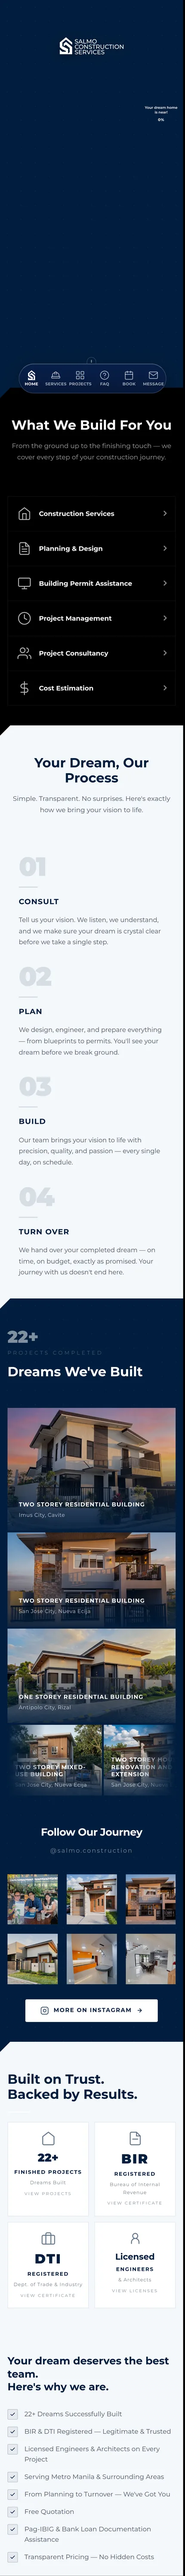
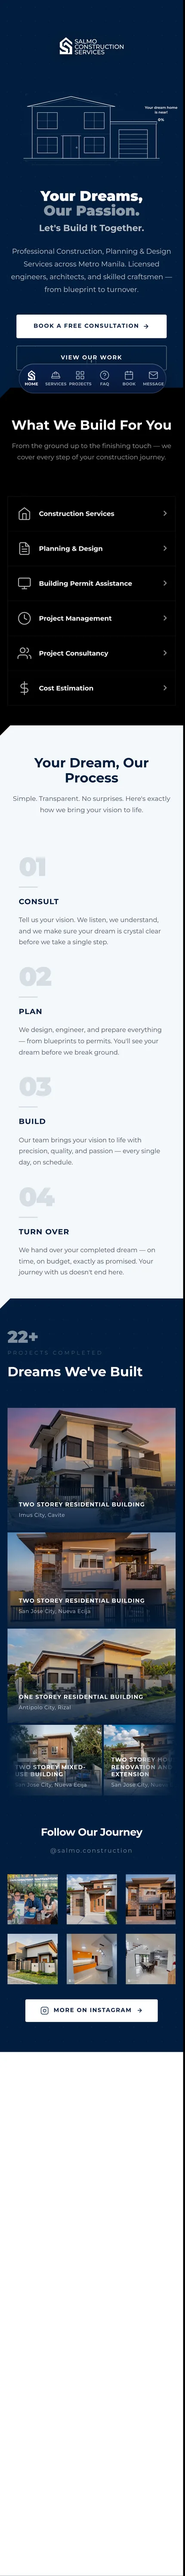
Website Design: sync scroll, phone half-overlap, Salmo mobile loaded state
- Both previews share one (slower) duration so desktop + phone scroll in sync
- Move the iPhone mock right so only ~half overlaps the desktop (wider grid
  gap so it never hits the neighbouring card; safe overhang on phones)
- Re-capture Salmo mobile after its intro animation (real homepage hero)

diff --git a/styles/website-design.css b/styles/website-design.css
@@ -109,12 +109,12 @@
   z-index: 1;
   display: grid;
   grid-template-columns: repeat(2, minmax(0, 1fr));
-  gap: clamp(20px, 3vw, 40px);
-  max-width: 900px;
+  gap: clamp(56px, 7vw, 76px);   /* wide enough for the phone's right overhang */
+  max-width: 940px;
   margin: 0 auto;
 }
 
-@media (max-width: 560px) { .webd-grid { grid-template-columns: 1fr; max-width: 420px; } }
+@media (max-width: 560px) { .webd-grid { grid-template-columns: 1fr; max-width: 420px; gap: 40px; } }
 
 /* ── Card ───────────────────────────────────────────── */
 .webd-card {
@@ -291,7 +291,7 @@
 .webd-phone {
   position: absolute;
   z-index: 4;
-  right: -6px;
+  right: -50px;                 /* sit to the right so only ~half overlaps the desktop */
   bottom: 40px;
   width: clamp(64px, 26%, 108px);
   aspect-ratio: 191 / 412;
@@ -338,6 +338,11 @@
 
 /* keep the "Visit site" chip clear of the phone */
 .webd-card.has-phone .webd-card__visit { left: 10px; right: auto; }
+
+/* On one-column (phones) keep the mock from overflowing the screen edge. */
+@media (max-width: 560px) {
+  .webd-phone { right: -14px; }
+}
 
 /* Hover (pointer devices only) — lift the frame + auto-scroll the live site */
 @media (hover: hover) {

diff --git a/index.html b/index.html
@@ -21,7 +21,7 @@
   <link rel="stylesheet" href="styles/nav.css?v=6">
   <link rel="stylesheet" href="styles/main.css?v=3">
   <link rel="stylesheet" href="styles/hero.css?v=8">
-  <link rel="stylesheet" href="styles/website-design.css?v=7">
+  <link rel="stylesheet" href="styles/website-design.css?v=8">
   <link rel="stylesheet" href="styles/social-media.css?v=33">
   <link rel="stylesheet" href="styles/mentorship.css?v=1">
   <link rel="stylesheet" href="styles/graphic-design.css?v=13">
@@ -687,7 +687,7 @@
   <script src="scripts/nav.js?v=9"></script>
   <script src="scripts/hero.js?v=4"></script>
   <script src="scripts/data-loader.js?v=5"></script>
-  <script src="scripts/website-design.js?v=5"></script>
+  <script src="scripts/website-design.js?v=6"></script>
   <script src="scripts/social-media.js?v=36"></script>
   <script src="scripts/mentorship.js?v=1"></script>
   <script src="scripts/graphic-design.js?v=9"></script>

diff --git a/scripts/website-design.js b/scripts/website-design.js
@@ -121,7 +121,10 @@
       mtravel = Math.max(0, mshot.clientHeight - pscr.clientHeight);
       card.style.setProperty('--webd-mtravel', mtravel + 'px');
     }
-    const dur = Math.min(16, Math.max(4, Math.max(travel, mtravel * 0.6) / 130));
+    /* One duration drives BOTH previews so they stay in sync (start and finish
+       together). Based on the desktop travel — the longer of the two — so the
+       desktop is a touch slower and the phone keeps pace. */
+    const dur = Math.min(22, Math.max(6, travel / 115));
     card.style.setProperty('--webd-scroll-dur', dur + 's');
   }
 
